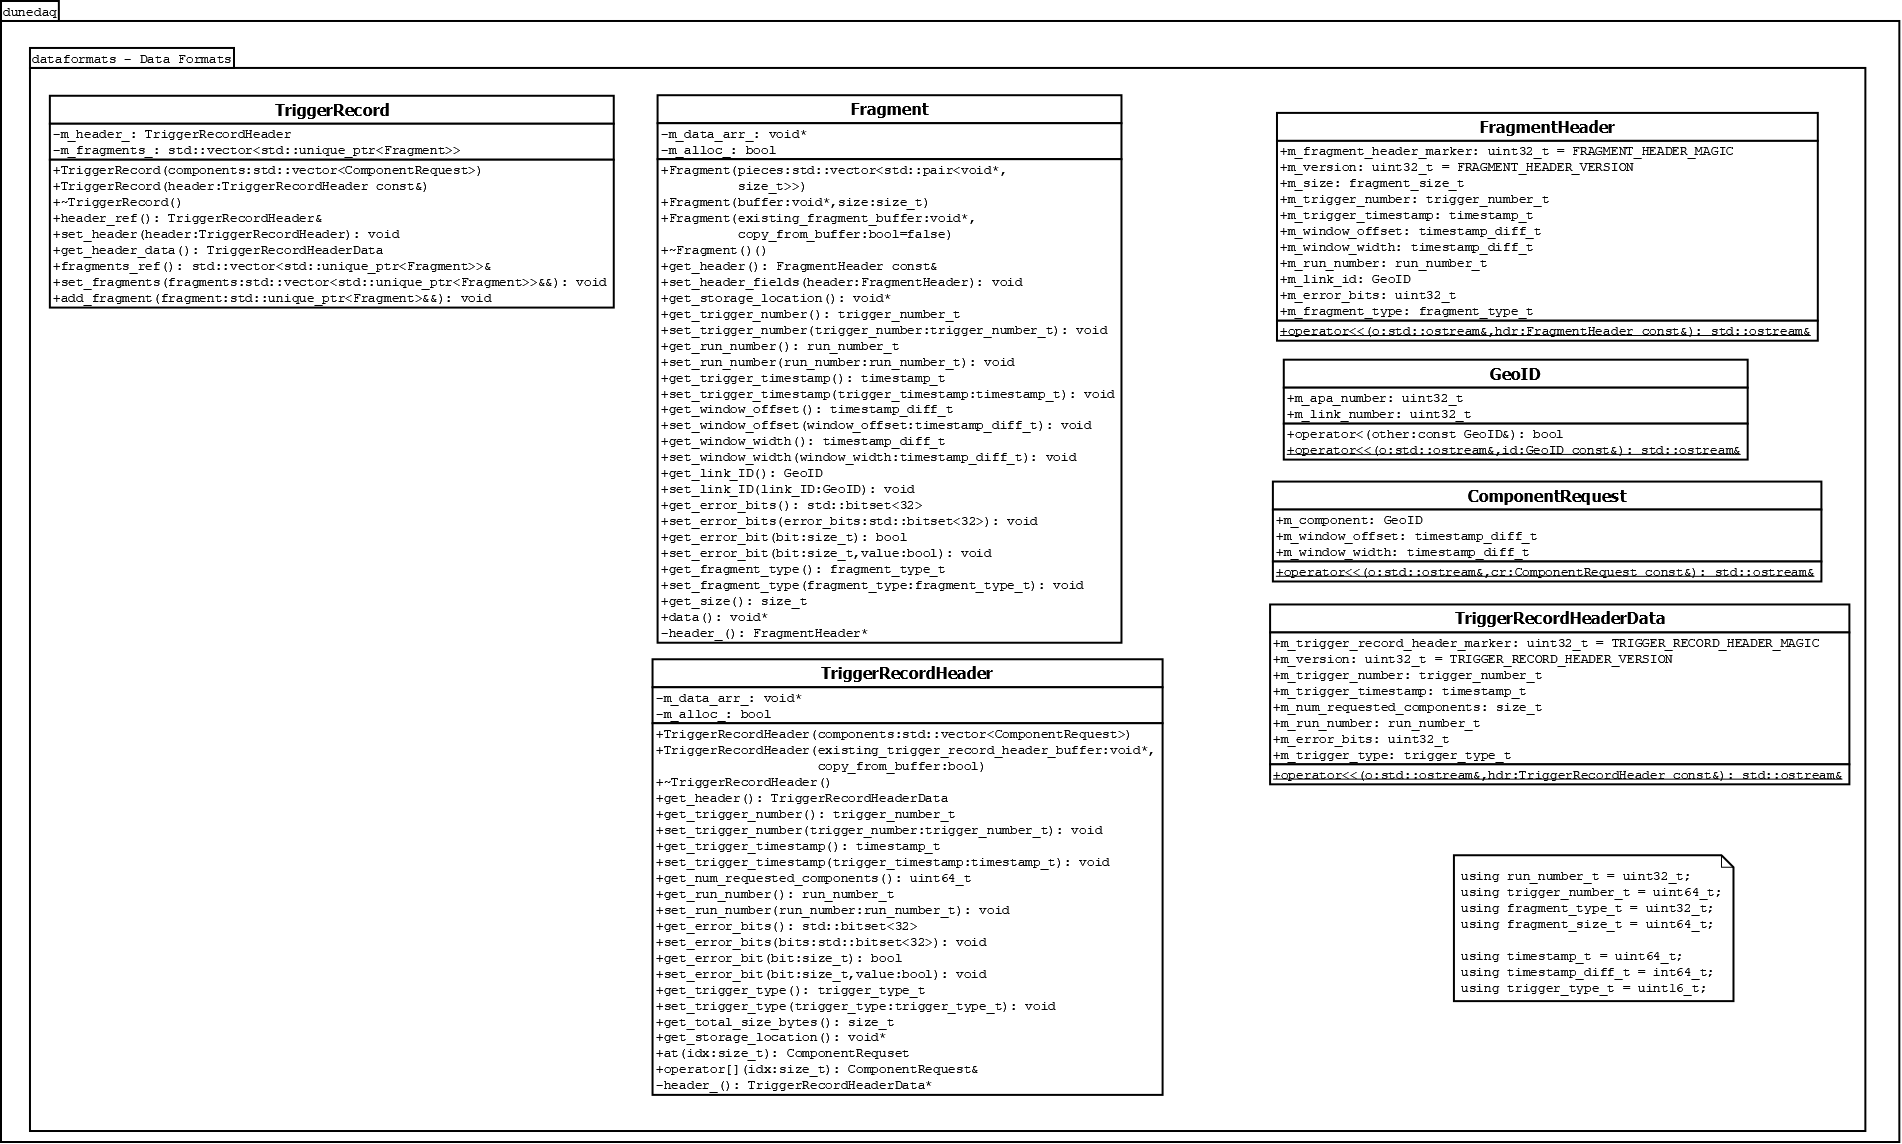
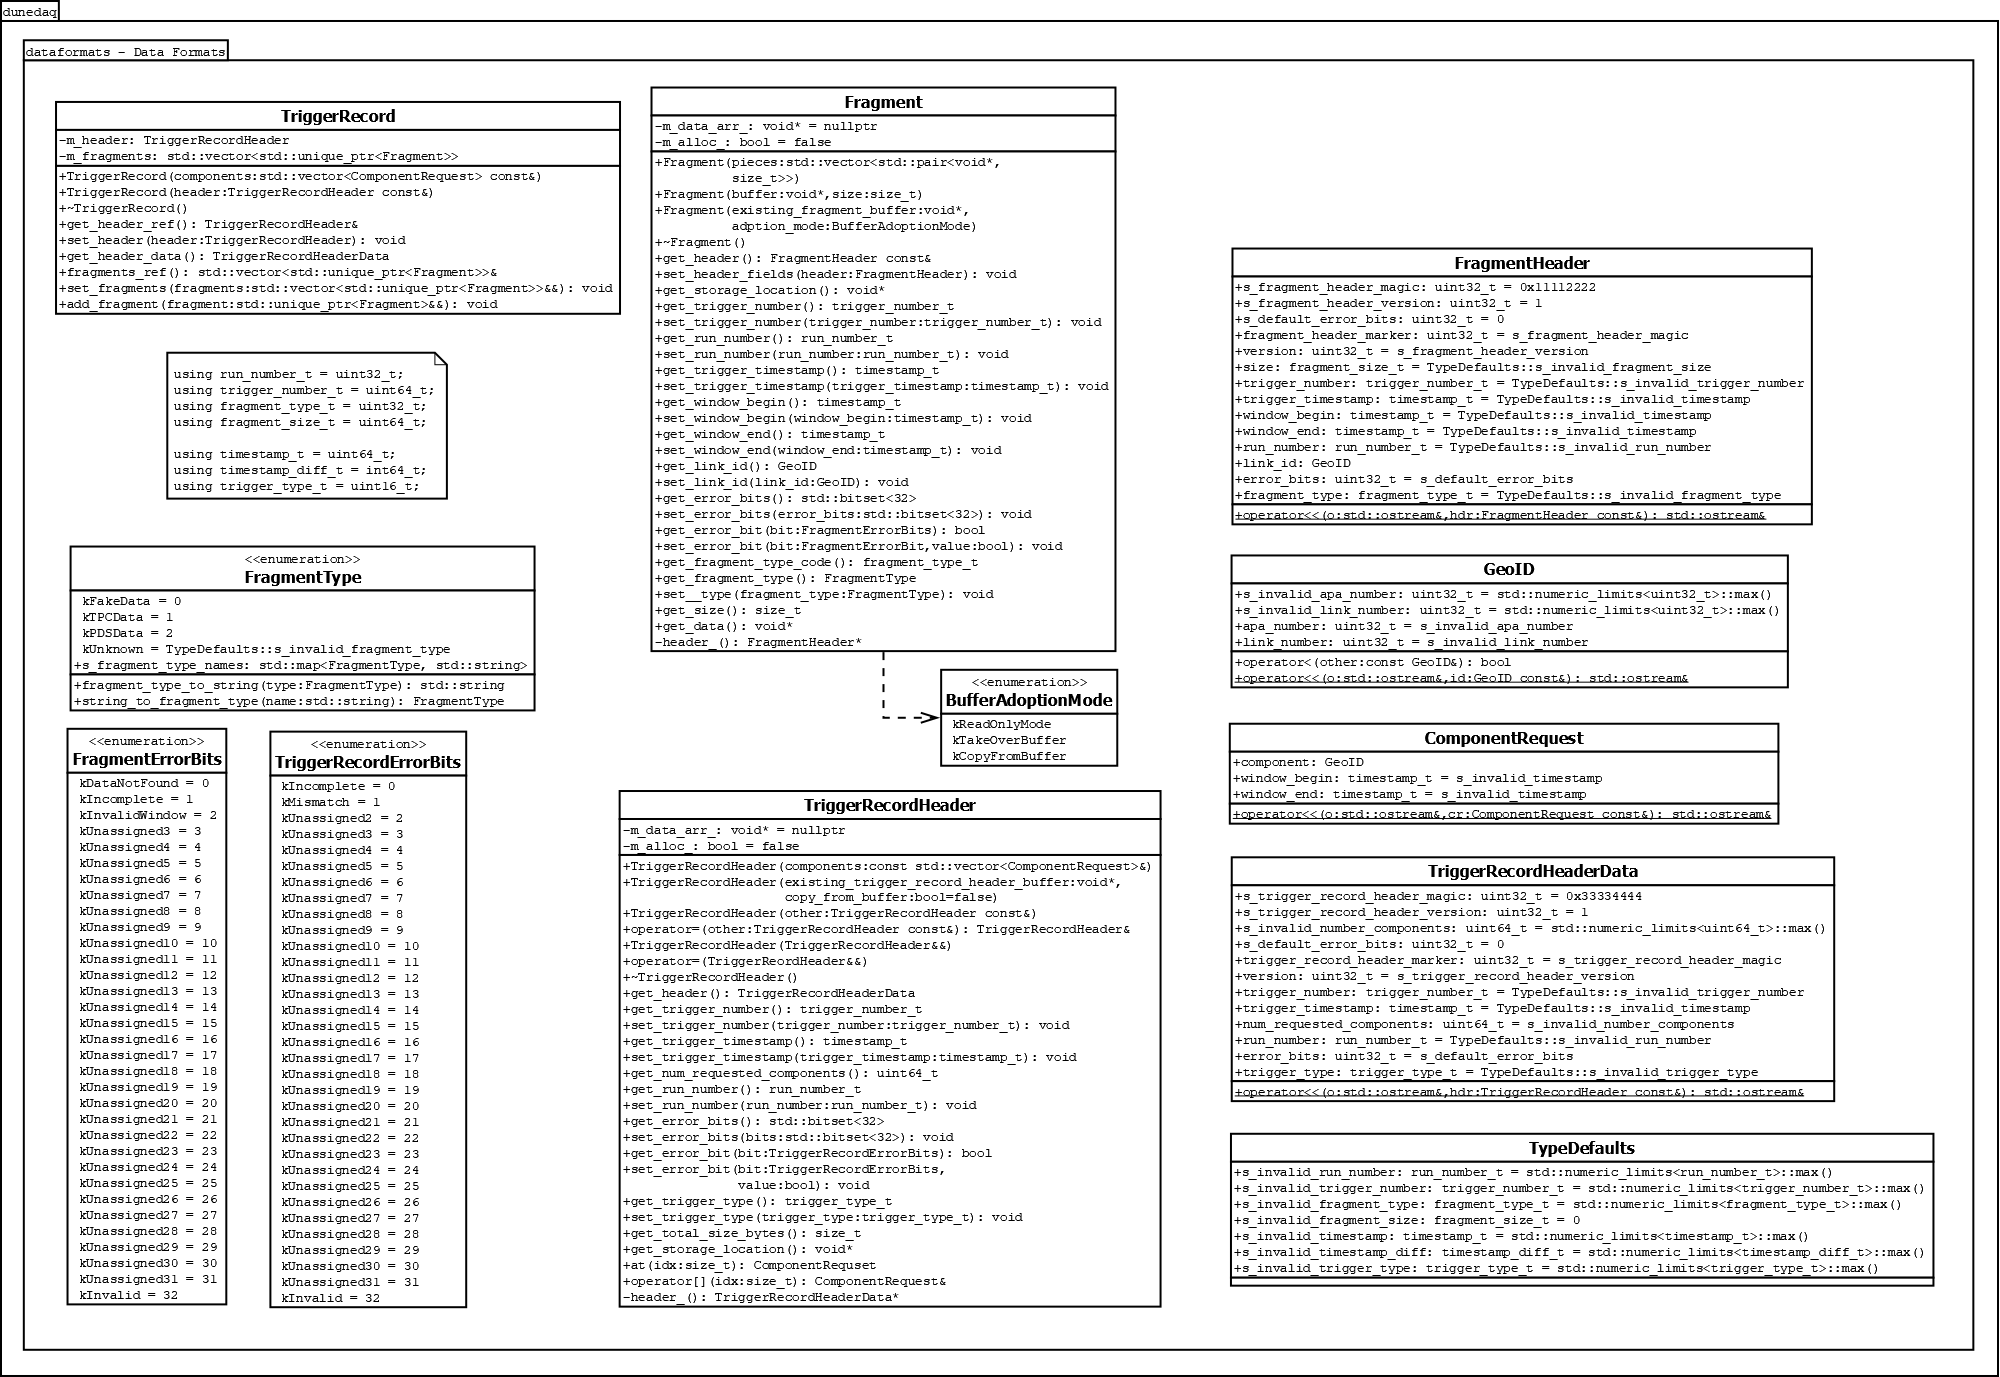
JCF: incorporate Eric's addition of UML class diagrams to dataformats

Changed region(s): [[0.0, 0.0, 1.0, 1.0], [0.1241, 0.3977, 0.1861, 0.4283]]

diff --git a/docs/packages/dataformats/README.md b/docs/packages/dataformats/README.md
@@ -2,6 +2,7 @@
 
 - This repository contains raw data bitfields and utilities used to decode them
 - This repository also contains classes which are generated within the DAQ and intended to be persisted to disk and read by Offline code.
+- Class Diagram: ![From dune_common_data_formats.dia](https://github.com/DUNE-DAQ/dataformats/raw/develop/docs/dune_common_data_formats.png)
 
 The following are brief descriptions of the various structs in this package, including links to fuller, field-by-field descriptions:
 
@@ -40,6 +41,7 @@ The following are brief descriptions of the various structs in this package, inc
 
 ----------------
 
+
 -----
 
 <font size="1">
@@ -48,7 +50,7 @@ _Last git commit to the markdown source of this page:_
 
 _Author: jcfreeman2_
 
-_Date: Thu Apr 29 14:22:49 2021 -0500_
+_Date: Thu Apr 29 14:25:20 2021 -0500_
 
 _If you see a problem with the documentation on this page, please file an Issue at [https://github.com/DUNE-DAQ/dataformats/issues](https://github.com/DUNE-DAQ/dataformats/issues)_
 </font>
